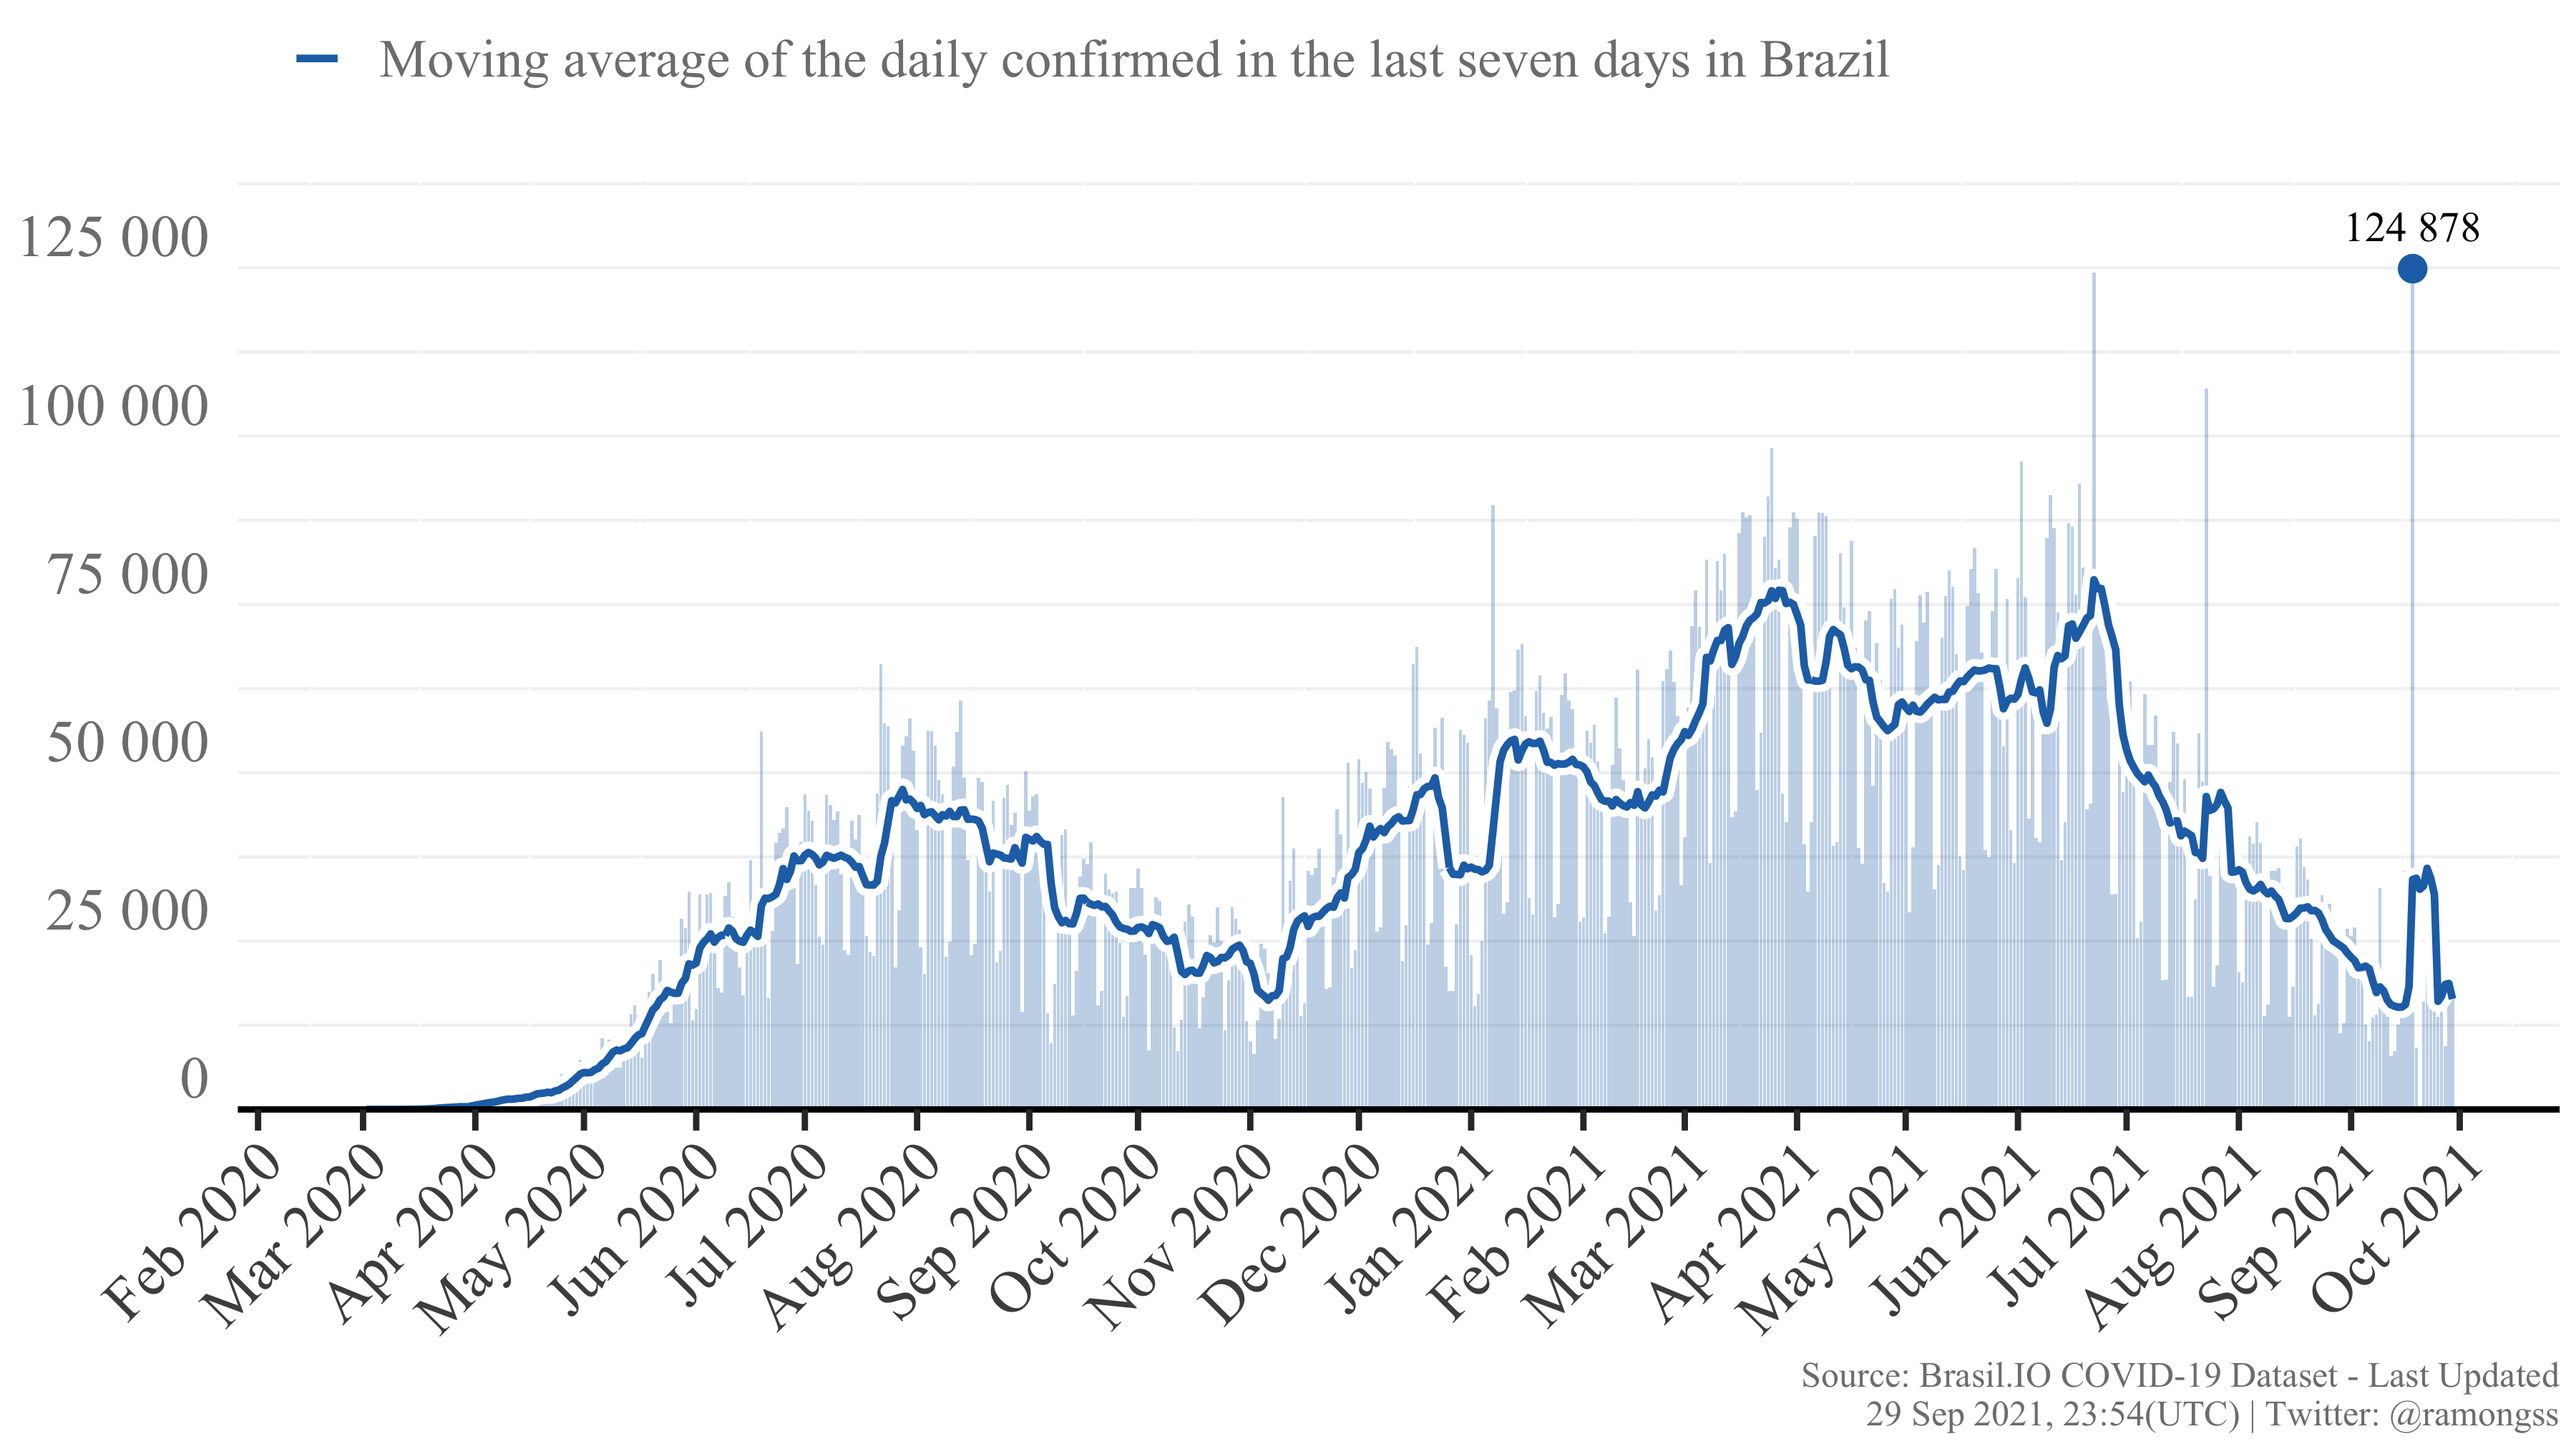
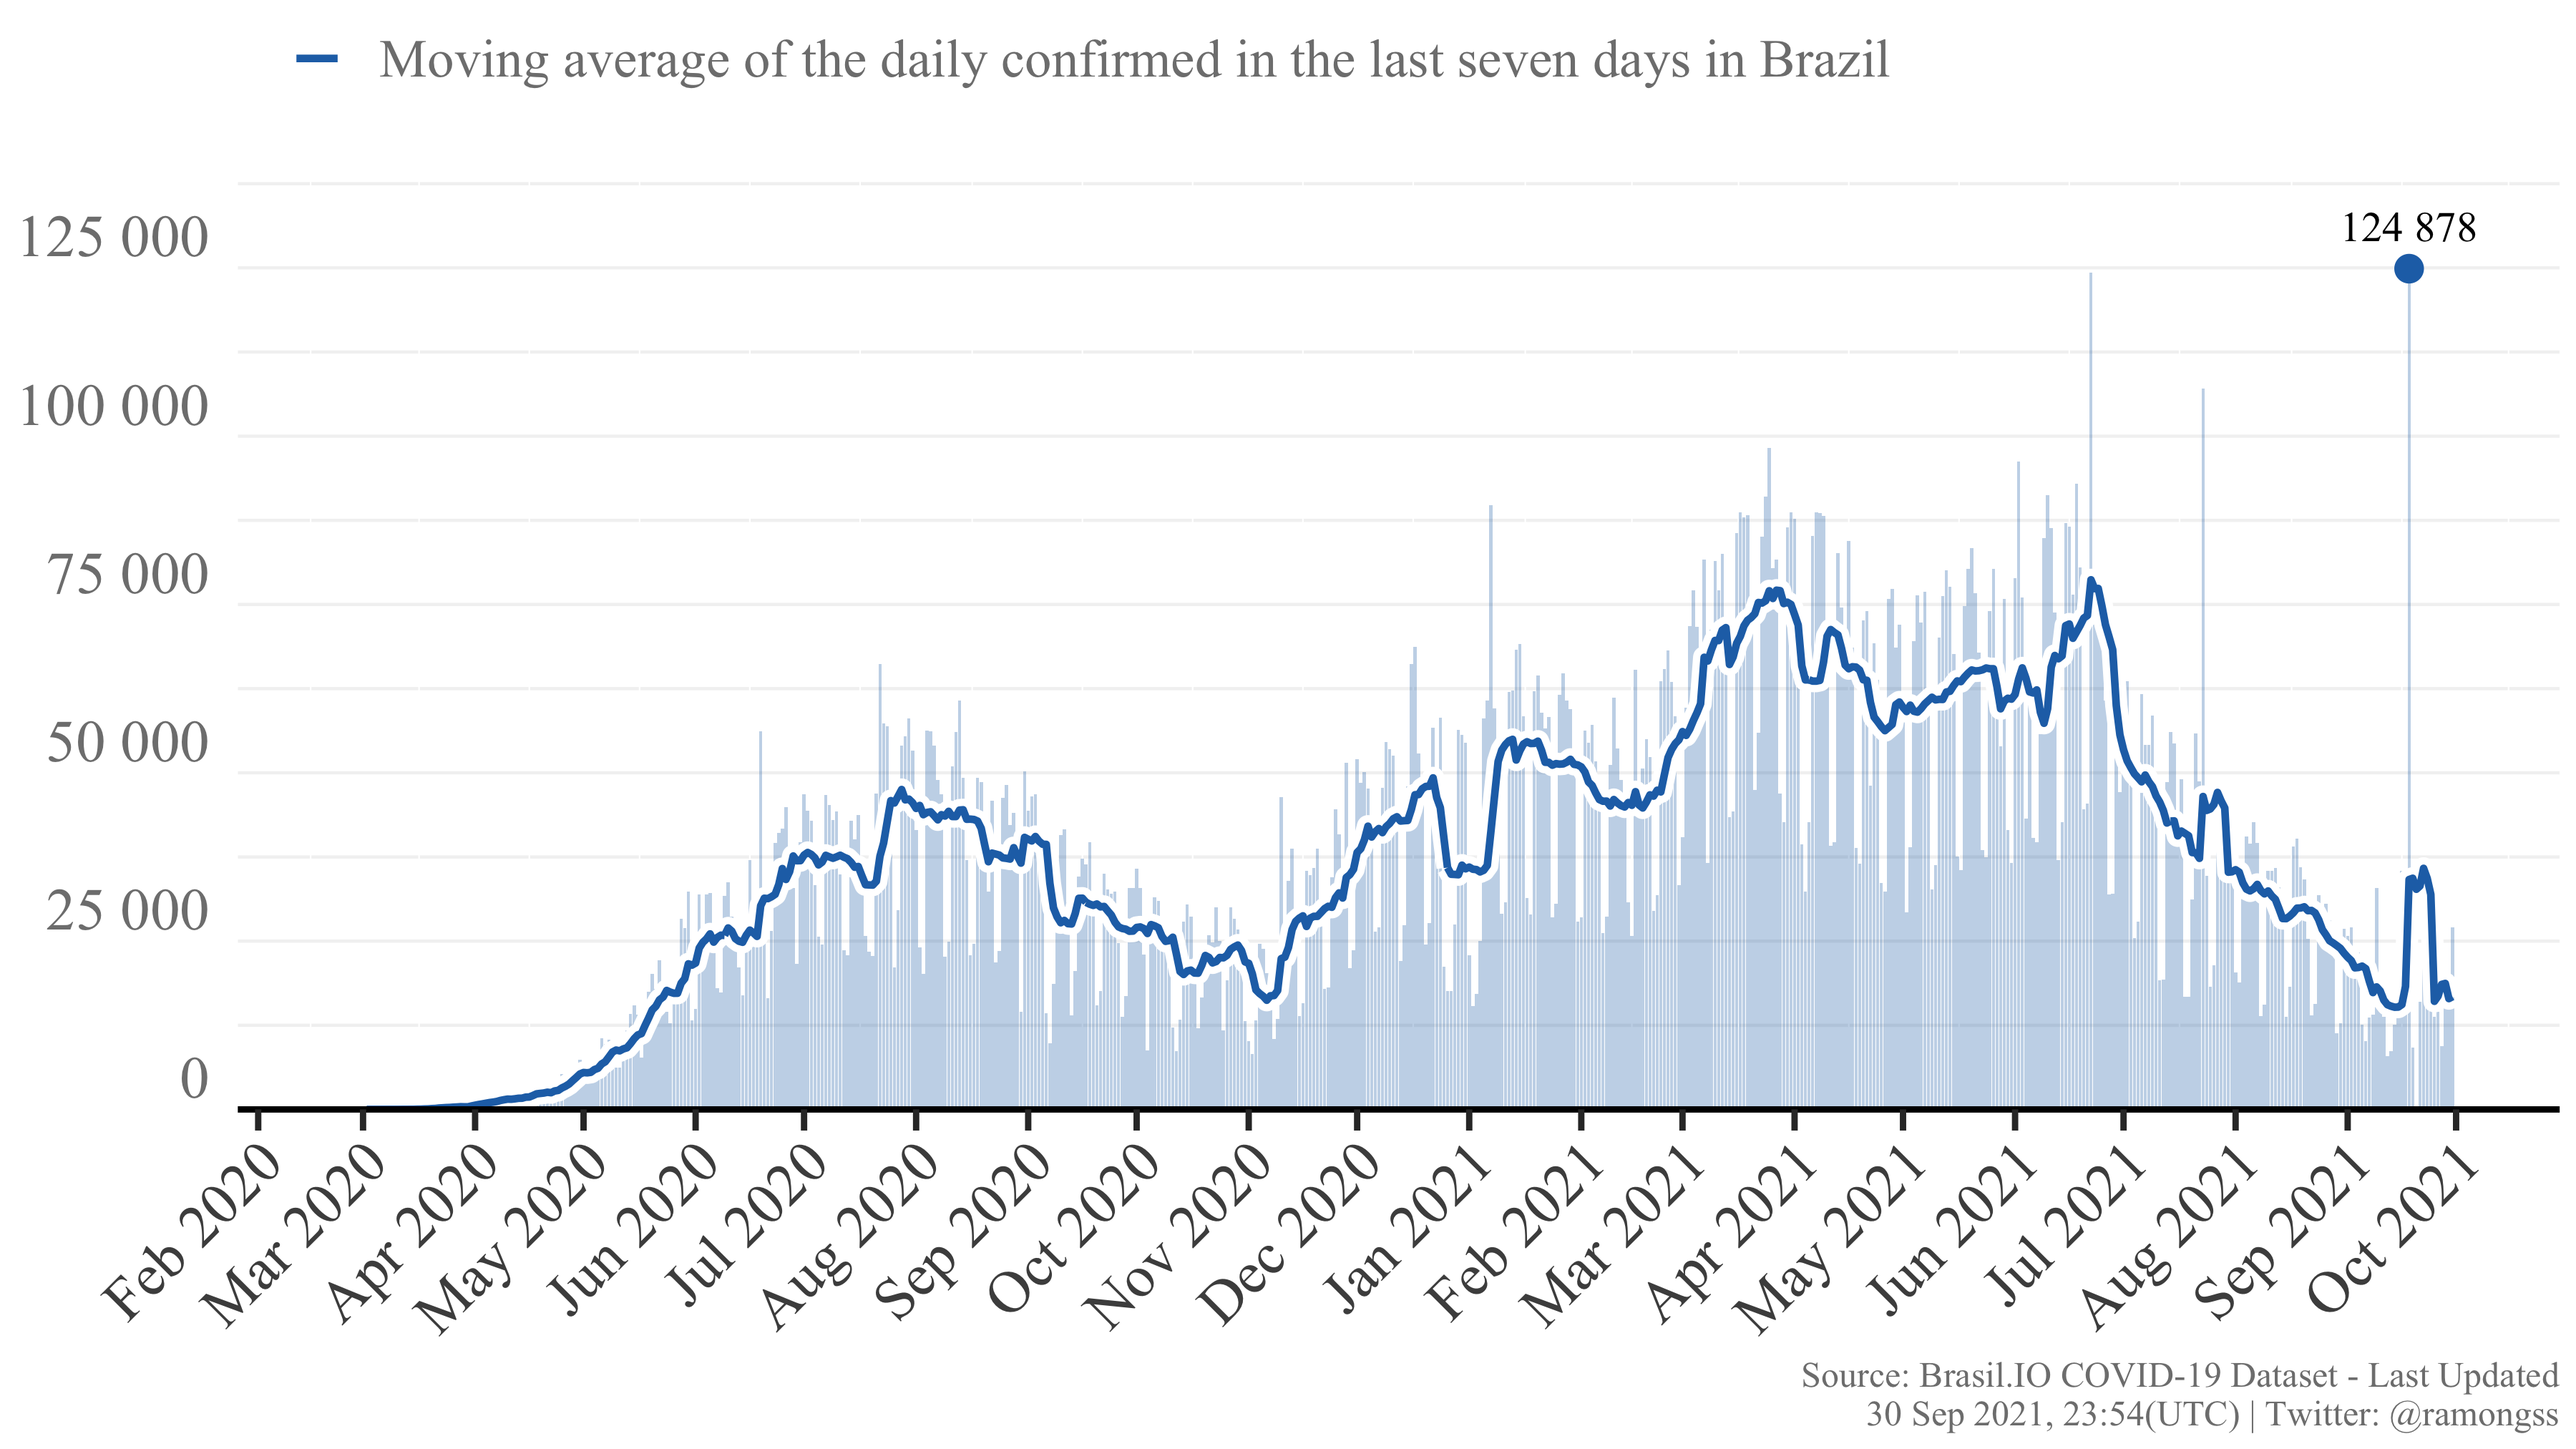
Re-build README.Rmd

diff --git a/README.md b/README.md
@@ -27,8 +27,8 @@ download_brasilio_table <- function(dataset = "covid19", table_name){
 
 ## COVID-19 Confirmed cases
 
-Currently, Brazil has a total of **21,404,381** confirmed cases at **29
-Sep, 2021**, with **16,442** new confirmed cases. The daily maximum
+Currently, Brazil has a total of **21,431,848** confirmed cases at **30
+Sep, 2021**, with **27,036** new confirmed cases. The daily maximum
 incidence was **124,878** confirmed cases at **18 Sep, 2021**. Here
 follows the Figure showing the confirmed case incidence as the bars, and
 the line as the moving average of the last 7 days.
@@ -37,8 +37,8 @@ the line as the moving average of the last 7 days.
 
 ## COVID-19 Deaths
 
-Currently, Brazil has a total of **596,413** deaths at **29 Sep, 2021**,
-with **670** new deaths. The daily maximum deaths incidence was
+Currently, Brazil has a total of **597,016** deaths at **30 Sep, 2021**,
+with **592** new deaths. The daily maximum deaths incidence was
 **4,148** deaths at **08 Apr, 2021**. Here follows the Figure showing
 the deaths incidence as the bars, and the line as the moving average of
 the last 7 days.
@@ -49,4 +49,4 @@ the last 7 days.
 
 This page is daily updated automatically using Github Actions.
 
-*Last update: 29 Sep 2021, 23:54 (UTC).*
+*Last update: 30 Sep 2021, 23:54 (UTC).*
